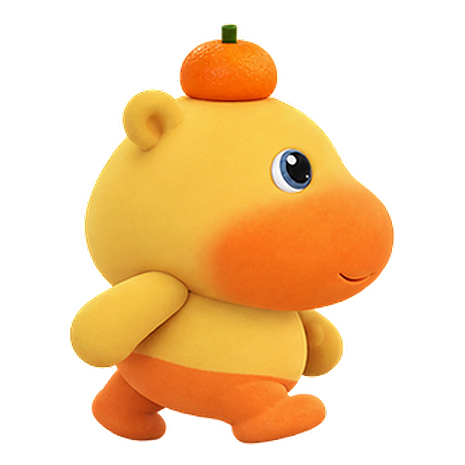
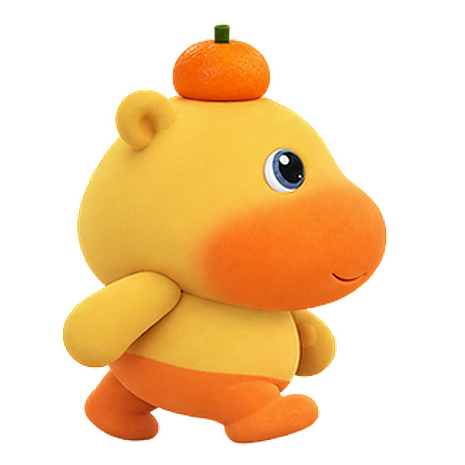
Fix Lulu walking oscillation and stabilize frame alignment

diff --git a/variants/desktop_pet_lulu/test_lulu.py b/variants/desktop_pet_lulu/test_lulu.py
@@ -2,12 +2,13 @@
 import hashlib
 from pathlib import Path
 import unittest
+from unittest.mock import patch, Mock
 from PIL import Image, ImageChops
-from PyQt6.QtCore import Qt, QPoint, QPointF, QEvent
-from PyQt6.QtGui import QMouseEvent, QTransform
+from PyQt6.QtCore import Qt, QPoint, QPointF, QRect, QEvent
+from PyQt6.QtGui import QMouseEvent, QTransform, QGuiApplication
 from PyQt6.QtTest import QTest
 from PyQt6.QtWidgets import QApplication
-from config import PetState, PET_STATES, DEFAULT_CHARACTER, WALK_RANGE, TYPING_TIMEOUT
+from config import PetState, PET_STATES, DEFAULT_CHARACTER, WALK_RANGE, WALK_SPEED, TYPING_TIMEOUT
 from pet_window import PetWindow
 
 ROOT = Path(__file__).resolve().parent
@@ -61,6 +62,86 @@ class LuluTests(unittest.TestCase):
         self.assertTrue(self.pet.testAttribute(Qt.WidgetAttribute.WA_ShowWithoutActivating))
         self.assertEqual(self.pet.focusPolicy(),Qt.FocusPolicy.NoFocus)
         self.assertFalse(self.pet.mask().contains(QPoint(0,0)))
+
+    def test_walk_head_stability_and_pose_preservation(self):
+        from build_fullbody_assets import (
+            walking_head_center, align_walking_heads, build_custom_walking_frames,
+        )
+        walk = [Image.open(p).convert('RGBA') for p in sorted(
+            (ROOT/'assets/blue_chibi/walking').glob('frame_*.png'))]
+        centers = [walking_head_center(frame) for frame in walk]
+        self.assertLessEqual(max(centers) - min(centers), 1.0)
+        # Rebuilding must preserve registration, and alignment must not distort
+        # any limb or introduce per-frame scale changes.
+        for stored, rebuilt in zip(walk, build_custom_walking_frames()):
+            self.assertEqual(stored.tobytes(), rebuilt.tobytes())
+        for before, after in zip(walk, align_walking_heads(walk)):
+            before_box = before.getchannel('A').getbbox()
+            after_box = after.getchannel('A').getbbox()
+            self.assertEqual(before_box[1::2], after_box[1::2])
+            self.assertEqual(before.crop(before_box).tobytes(), after.crop(after_box).tobytes())
+
+    def test_walk_stops_without_reversing_on_each_monitor(self):
+        p = self.pet
+        for screen in [QRect(0, 24, 1440, 876), QRect(1440, 0, 1920, 1080),
+                       QRect(-1920, -200, 1920, 1080)]:
+            for direction in [-1, 1]:
+                with self.subTest(screen=screen, direction=direction), patch.object(
+                    p, '_available_screen_geometry', return_value=screen
+                ):
+                    home = screen.left() + 400
+                    p.move(home, screen.top() + 250)
+                    p.home_position = p.pos()
+                    p.state_machine.request_state(PetState.WALKING, True)
+                    p.state_machine.stop()
+                    p.state_machine.walk_direction = direction
+                    positions = [p.x()]
+                    for _ in range(100):
+                        p._on_walk_step(direction)
+                        positions.append(p.x())
+                        self.assertEqual(p.state_machine.walk_direction, direction)
+                    deltas = [b-a for a, b in zip(positions, positions[1:])]
+                    self.assertTrue(all(0 <= d * direction <= WALK_SPEED for d in deltas))
+                    self.assertEqual(p.x(), home + direction * WALK_RANGE)
+                    self.assertEqual(p.state_machine.current_state, PetState.IDLE)
+                    self.assertFalse(p.state_machine.walk_step_timer.isActive())
+                    # A later walk at the boundary starts inward, once.
+                    p.state_machine.request_state(PetState.WALKING, True)
+                    p.state_machine.stop()
+                    self.assertEqual(p.state_machine.walk_direction, -direction)
+
+    def test_offscreen_home_and_small_screen_never_invert_bounds(self):
+        p = self.pet
+        for screen, home in [(QRect(0, 0, 1440, 900), 1300),
+                             (QRect(1440, 0, 1920, 1080), 3300),
+                             (QRect(-1920, 0, 1920, 1080), -2000),
+                             (QRect(50, 0, 200, 180), 180)]:
+            with self.subTest(screen=screen, home=home), patch.object(
+                p, '_available_screen_geometry', return_value=screen
+            ):
+                p.move(home, 0)
+                p.home_position = p.pos()
+                p.state_machine.request_state(PetState.WALKING, True)
+                p.state_machine.stop()
+                left, right = p._walk_limits()
+                self.assertLessEqual(left, right)
+                p._on_walk_step(p.state_machine.walk_direction)
+                stopped = p.x()
+                for _ in range(20):
+                    p._on_walk_step(p.state_machine.walk_direction)
+                    self.assertEqual(p.x(), stopped)
+                self.assertLessEqual(left, stopped)
+                self.assertLessEqual(stopped, right)
+                self.assertEqual(p.state_machine.current_state, PetState.IDLE)
+
+    def test_screen_geometry_refreshes_after_monitor_change(self):
+        screen = Mock()
+        geometries = [QRect(1440, 0, 1920, 1080), QRect(-1920, 24, 1920, 1056)]
+        with patch.object(QGuiApplication, 'screenAt', return_value=screen) as screen_at:
+            for geometry in geometries:
+                screen.availableGeometry.return_value = geometry
+                self.assertEqual(self.pet._available_screen_geometry(), geometry)
+                screen_at.assert_called_with(self.pet.frameGeometry().center())
 
     def test_walk_orientation_and_masks_change_on_frame(self):
         p=self.pet

diff --git a/variants/desktop_pet_lulu/pet_window.py b/variants/desktop_pet_lulu/pet_window.py
@@ -131,8 +131,8 @@ class PetWindow(QWidget):
 
         # 位置初始化（屏幕右下角）
         screen = QGuiApplication.primaryScreen().availableGeometry()
-        self.move(screen.width() - WINDOW_WIDTH - 50,
-                  screen.height() - WINDOW_HEIGHT - 50)
+        self.move(max(screen.left(), screen.right() + 1 - WINDOW_WIDTH - 50),
+                  max(screen.top(), screen.bottom() + 1 - WINDOW_HEIGHT - 50))
 
         # 拖拽相关
         self.dragging = False
@@ -234,9 +234,6 @@ class PetWindow(QWidget):
         # 系统托盘
         self._init_tray()
 
-        # 走路边界检测
-        self.screen_geometry = screen
-
         # 使用当前系统的原生方式再设置一次窗口层级。
         # 不能反复 raise 窗口，否则会打断中文输入法候选框。
         QTimer.singleShot(0, self._ensure_topmost)
@@ -322,6 +319,13 @@ class PetWindow(QWidget):
 
     def _on_state_changed(self, state):
         """状态改变回调"""
+        if state == PetState.WALKING:
+            left, right = self._walk_limits()
+            # 只在开始一次行走时选择朝向；到边界后休息，不来回弹跳。
+            if self.x() <= left:
+                self.state_machine.walk_direction = 1
+            elif self.x() >= right:
+                self.state_machine.walk_direction = -1
         self.animation.set_state(state)
         self._update_click_mask()
         self.update()
@@ -499,33 +503,39 @@ class PetWindow(QWidget):
         """左手只跟随每次 keydown 的敲击脉冲，不被长按键位粘住。"""
         self.left_hand_down = self.left_hand_tap_phase > 0
 
-    def _on_walk_step(self, direction):
-        """走路每一步"""
-        current_x = self.x()
-        new_x = current_x + direction * WALK_SPEED
-        direction_changed = False
+    def _available_screen_geometry(self):
+        """使用角色所在屏幕的全局坐标，支持外接屏和负坐标。"""
+        screen = (QGuiApplication.screenAt(self.frameGeometry().center())
+                  or self.screen() or QGuiApplication.primaryScreen())
+        return screen.availableGeometry()
 
-        # 只在当前停靠点附近小范围走动，避免工作时跑太远。
+    def _walk_limits(self):
+        screen = self._available_screen_geometry()
         margin = 10
-        left_limit = max(margin, self.home_position.x() - WALK_RANGE)
-        right_limit = min(
-            self.screen_geometry.width() - self.width() - margin,
-            self.home_position.x() + WALK_RANGE,
-        )
+        screen_left = screen.left() + margin
+        screen_right = screen.right() + 1 - self.width() - margin
+        if screen_right < screen_left:
+            screen_left = screen_right = screen.left()
+        # 拖到屏外或显示器布局变化后，先将停靠点移入有效范围。
+        home_x = min(max(self.home_position.x(), screen_left), screen_right)
+        self.home_position.setX(home_x)
+        return (max(screen_left, home_x - WALK_RANGE),
+                min(screen_right, home_x + WALK_RANGE))
 
-        if new_x < left_limit:
-            new_x = left_limit
-            self.state_machine.walk_direction = 1  # 转向
-            direction_changed = True
-        elif new_x > right_limit:
-            new_x = right_limit
-            self.state_machine.walk_direction = -1  # 转向
-            direction_changed = True
-
+    def _on_walk_step(self, direction):
+        """沿同一方向走到边界后停下，避免瞬间反向造成摇摆。"""
+        if self.dragging or self.state_machine.get_current_state() != PetState.WALKING:
+            return
+        left, right = self._walk_limits()
+        current_x = self.x()
+        if current_x < left or current_x > right:
+            self.move(min(max(current_x, left), right), self.y())
+            self.state_machine.request_state(PetState.IDLE, True)
+            return
+        new_x = min(max(current_x + direction * WALK_SPEED, left), right)
         self.move(new_x, self.y())
-        if direction_changed:
-            self._update_click_mask()
-            self.update()
+        if new_x == left or new_x == right:
+            self.state_machine.request_state(PetState.IDLE, True)
 
     def _get_display_frame(self):
         """获取用于点击区域计算的逻辑尺寸帧。实际绘制会使用高清源图。"""
@@ -974,8 +984,8 @@ class PetWindow(QWidget):
     def _reset_position(self):
         """重置位置到右下角"""
         screen = QGuiApplication.primaryScreen().availableGeometry()
-        self.move(screen.width() - self.width() - 50,
-                  screen.height() - self.height() - 50)
+        self.move(max(screen.left(), screen.right() + 1 - self.width() - 50),
+                  max(screen.top(), screen.bottom() + 1 - self.height() - 50))
         self.home_position = QPoint(self.x(), self.y())
 
     def _open_input_monitoring_settings(self):

diff --git a/variants/desktop_pet_lulu/build_fullbody_assets.py b/variants/desktop_pet_lulu/build_fullbody_assets.py
@@ -1,6 +1,7 @@
 #!/usr/bin/env python3
 """Build transparent full-body desktop pet frames from a 4x3 sprite sheet."""
 from pathlib import Path
+from statistics import median
 
 from PIL import Image
 
@@ -282,6 +283,36 @@ def clear_state_dir(path):
         frame.unlink()
 
 
+def walking_head_center(frame):
+    """Lulu's wide head is a stable anchor; swinging limbs are not."""
+    alpha = frame.getchannel("A")
+    _, top, _, bottom = alpha.getbbox()
+    height = bottom - top
+    centers = []
+    for y in range(top + round(height * .25), top + round(height * .55)):
+        row = alpha.crop((0, y, frame.width, y + 1)).point(lambda a: 255 if a >= 128 else 0)
+        box = row.getbbox()
+        if box:
+            centers.append((box[0] + box[2] - 1) / 2)
+    return median(centers)
+
+
+def align_walking_heads(frames):
+    """Translate only: preserve all eight poses, scale and foot baselines."""
+    centers = [walking_head_center(frame) for frame in frames]
+    target = median(centers)
+    aligned = []
+    for frame, center in zip(frames, centers):
+        dx = round(target - center)
+        left, _, right, _ = frame.getchannel("A").getbbox()
+        if left + dx < 1 or right + dx >= frame.width:
+            raise ValueError("Walking head alignment would crop the sprite")
+        output = Image.new("RGBA", frame.size, (0, 0, 0, 0))
+        output.alpha_composite(frame, (dx, 0))
+        aligned.append(output)
+    return aligned
+
+
 def build_custom_walking_frames():
     """Load a real 8-frame walking cycle when a dedicated sheet is present."""
     if not WALKING_SHEET_PATH.exists():
@@ -303,7 +334,7 @@ def build_custom_walking_frames():
     tallest = max(frame.height for frame in raw_frames)
     shared_scale = min(max_w / widest, max_h / tallest)
 
-    return [
+    frames = [
         fit_to_frame(
             frame,
             clean_lower_artifacts=True,
@@ -312,6 +343,8 @@ def build_custom_walking_frames():
         )
         for frame in raw_frames
     ]
+    # Bounding-box centering shifts the head whenever a leg extends sideways.
+    return align_walking_heads(frames)
 
 
 def main():

diff --git a/variants/desktop_pet_lulu/README.md b/variants/desktop_pet_lulu/README.md
@@ -1,4 +1,4 @@
-# 噜噜桌宠 · DesktopPetLulu
+# 噜噜桌宠 · DesktopPetLulu 1.0.1
 
 基于本仓库原有 DesktopPet 框架的独立角色，保留圆润黄色身体、橙色嘴部和头顶小橘子。原男生版和女生版不受影响。
 
@@ -8,6 +8,13 @@
 - Windows 10/11 64 位：双击 `DesktopPetLulu-Windows-x64.exe`。也可解压 ZIP，双击其中的 `DesktopPetLulu.exe`。
 - 分享给朋友：macOS 发送 DMG；Windows 发送 ZIP。无需安装 Python。
 - 当前使用本地临时签名，未进行 Apple 公证或 Windows 商业签名。系统首次运行可能显示来源提示。
+
+## 1.0.1 走路修复
+
+- 一次行走保持同一方向，到活动边界停下休息，下次行走再选择方向。
+- 修复屏幕边缘和外接显示器上左右连续跳动，支持负坐标屏幕。
+- 保留已确认的 8 帧腿部动作，校正头部横向对齐，避免手脚伸出时整个人物偏移。
+- 更新前请先从旧版桌宠菜单选择“退出”，再打开新版；避免同时运行两只噜噜。
 
 ## 使用方式
 
@@ -22,7 +29,7 @@
 
 键盘事件仅在内存中用于动画，不模拟键盘/鼠标、不保存或上传输入内容。公开素材均为生成的角色图；用户原始参考图不放入仓库或 Release。
 
-角色轮廓和 8 帧走路已分别经过用户确认。走路使用独立 `art/walking_sprite_sheet_alpha.png`，同一缩放比例和脚底锚点；向左移动时只镜像当前帧。待机、眨眼、睡觉、醒来、开心、惊讶、拖拽和打字素材位于本变体内。
+角色轮廓和 8 帧走路已分别经过用户确认。走路使用独立 `art/walking_sprite_sheet_alpha.png`，同一缩放比例、脚底锚点和头部横向对齐；向左移动时只镜像当前帧。待机、眨眼、睡觉、醒来、开心、惊讶、拖拽和打字素材位于本变体内。
 
 ## 重建和测试
 

diff --git a/variants/desktop_pet_lulu/art/APPROVALS.md b/variants/desktop_pet_lulu/art/APPROVALS.md
@@ -5,3 +5,5 @@
 - Other poses and typing scenes generated after these approvals using built-in image_gen.
 - User-supplied reference screenshots are not included in this repository. Only generated art is tracked here.
 - Sprite extraction uses the existing connected-alpha analysis, shared scale and foot-anchor pipeline. Walking leg shapes are independently drawn poses, not whole-image scaling or wobble.
+
+- 2026-09-21 walking fix requested by user: preserve approved pose sheet and all limb shapes; register output frames horizontally to the head, without per-frame scale changes. Runtime stops at boundaries instead of bouncing.
